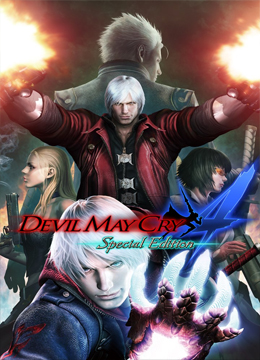
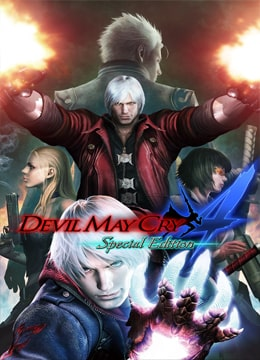
Optimasi Size Gambar

diff --git a/js/swiper.js b/js/swiper.js
@@ -1,6 +1,18 @@
 // SwiperJS
 const mySwiper = new Swiper('.swiper-container', {
+    effect: 'cube',
+    grabCursor: true,
+    cubeEffect: {
+        shadow: true,
+        slideShadows: true,
+        shadowOffset: 20,
+        shadowScale: 0.94,
+    },
     // Optional parameters
+    keyboard: {
+        enabled: true,
+        onlyInViewport: false,
+    },
     autoplay: {
         delay: 2500,
         loop: true,
